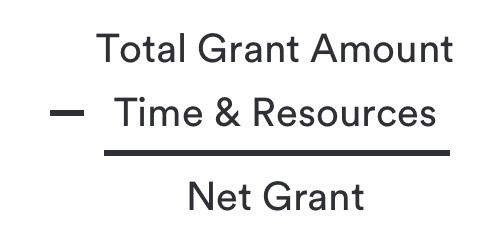
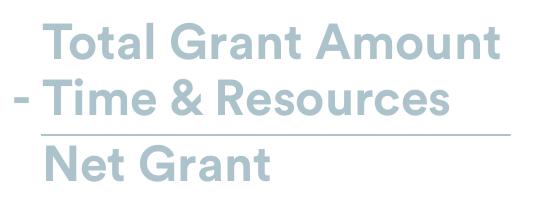
Resolving #104 #105 #106 #30

diff --git a/_layouts/landing.html b/_layouts/landing.html
@@ -19,22 +19,21 @@
 				<div class="marketing">
 					<div class="features">
 						<div class="intro col col--xs-24 col--sm-24 col--md-12 col--lg-12">
-							<h2>What is the "Net Grant?"</h2>
-							<p>Net Grant = Total Grant Amount MINUS the Time and Resources expended to seek and implement the grant.
+							<h2>What is the "net grant?"</h2>
+							<p>Net Grant = Total Grant Amount MINUS the time and resources expended to seek and implement the grant.
 							</p>
 							<div class="equation">
 								<img src="{{ "/img/net-grant-equation.png" | prepend: site.baseurl | prepend: site.url }}">
 							</div>
-							<p>This tool will help grantmakers and grantseekers better understand the cost to their organization - and to the sector as whole - of making and seeking grants.
+							<p>This tool will help grantmakers and grantseekers calculate and better understand the true cost to your organizations – and to the sector as whole – of making and seeking grants.
 							</p>
 						</div>
 					</div>
 					<div class="features">
 						<div class="gseek col col--xs-24 col--sm-24 col--md-12 col--lg-12">
-							<h2 id="grantseekers">For Grantseekers</h2>
-							<h3>Decide Which Grants To Pursue</h3>
-							<p>The net grant calculator helps you decide which grants to pursue and helps you prioritize those grants with the highest net grant value to your organization.<br>
-								Grantseekers can use the tool to help them calculate – and understand – their return on investment for grantseeking activities and ensure that you’re spending time on what’s most important.
+							<h2 id="grantseekers">Grantseekers</h2>
+							<h3>Decide which grants to pursue</h3>
+							<p>You can use the tool to help you calculate – and understand – your return on investment for grantseeking activities and ensure that you’re spending time on what’s most important. The Net Grant Calculator can help you decide which grants to pursue and help you prioritize those grants with the highest net grant value to your organization.
 							</p>
 							<div class="feature col col--xs-12 col--sm-12 col--md-6 col--lg-6">
 								<div class="logo">
@@ -52,10 +51,9 @@
 							</div>
 						</div>
 						<div class="gmake col col--xs-24 col--sm-24 col--md-12 col--lg-12">
-							<h2 id="grantmakers">For Grantmakers</h2>
-							<h3>Know The Cost of Your Grant Programs</h3>
-							<p>The net grant calculator helps you map your grantmaking process and understand how much it costs to run each of your grant programs and the amount of time and resources expended by potential grantees to apply.<br>
-								As a grantmaker, you want to ensure that the cost to run each of your programs does not eat away at the benefit it offers and ensure that you are spending time and money on the right parts of the grantmaking process.
+							<h2 id="grantmakers">Grantmakers</h2>
+							<h3>Know the cost of your grant programs</h3>
+							<p>You want to ensure that the cost to run each of your programs does not eat away at the benefit it offers, and that you are spending time and money on the right parts of the grantmaking process. The Net Grant Calculator helps you map your grantmaking process and understand how much it costs to run each of your grant programs and the amount of time and resources expended by potential grantees to apply.
 							</p>
 						</div>
 						<div class="features">
@@ -99,10 +97,10 @@
 					</form>
 				</div>
 				<div class="description">
-					<h2>Grant Calculator is supported by</h2>
+					<h2>Net Grant Calculator is supported by</h2>
 					<img class="support" alt="Peak Grantmaking" src="{{ "/img/peak_logo.png" | prepend: site.baseurl | prepend: site.url }}">
 					<img class="support" alt="New America PIT" src="{{ "/img/newamerica_logo.png" | prepend: site.baseurl | prepend: site.url }}">
-					<h2>Grant Calculator is a project of</h2>
+					<h2>Net Grant Calculator is a project of</h2>
 					<img class="support" alt="The Mulligan Fund" src="{{ "/img/mulligan_logo.png" | prepend: site.baseurl | prepend: site.url }}">
 				</div>
 			</div>

diff --git a/_layouts/home.html b/_layouts/home.html
@@ -10,7 +10,7 @@
      </div>
      <div class="description">
         <h2>How much is that grant really worth? The Net Grant Calculator will help you find out.</h2>
-        <p>The Net Grant Calculator helps both not-for-profits and grantmakers evaluate the net value a grant will provide. <b>For not-for-profits</b>, the calculator provides a tool to help decide which grants to pursue. For <b>grantmakers</b>, the calculator helps understand the impact on grantees of application and management processes and helps identify ways to increase their grants' net value to grantees. It also helps grantmakers understand the cost of running a grant program to help identify ways to streamline internal processes.</p>
+        <p>The Net Grant Calculator helps both not-for-profits and grantmakers evaluate the net value a grant will provide. <b>For grantseekers</b>, the calculator provides a tool to help decide which grants to pursue. For <b>grantmakers</b>, the calculator helps understand the impact on grantees of application and management processes and helps identify ways to increase their grants' net value to grantees. It also helps grantmakers understand the cost of running a grant program to help identify ways to streamline internal processes.</p>
  
         <p>To get the most value from this tool, you’ll need information about who in your organization is involved with different stages of the grant process and how much time they spent. If you don’t know exact numbers, you can use estimates and still get a good sense of the net value of a particular grant or program.</p>
           

diff --git a/gmaker.html b/gmaker.html
@@ -127,7 +127,7 @@ page: form
 		</div>
 
 		{% if forloop.last %}
-			<a href="{{ "/result" | prepend: site.baseurl | prepend: site.url }}" class="button local bottomgrant">Grant Result</a>{% endif %}
+			<a href="{{ "/makerresult" | prepend: site.baseurl | prepend: site.url }}" class="button local bottomgrant">Grant Result</a>{% endif %}
 
 		<div class="del col col--xs-12 col--sm-12 col--md-8 col--lg-8 col--md-offset-2 col--lg-offset-2"">
 		<a href="#" class="delete">Delete Grant?</a>

diff --git a/about.md b/about.md
@@ -1,13 +1,13 @@
 ---
 layout: content
-title: About The Net Grant Calculator
+title: About the Net Grant Calculator
 permalink: /about/
 ---
-The Net Grant Calculator helps both not-for-profits and grantmakers evaluate the net value a grant will provide. For not-for-profits, the calculator provides a tool to help decide which grants to pursue. For grantmakers, the calculator helps understand the impact on grantees of application and management processes and helps identify ways to increase their grants' net value to grantees. It also helps grantmakers understand the cost of running a grant program to help identify ways to streamline internal processes.
+The Net Grant Calculator helps both grantmakers and grantseekers evaluate the net value a grant will provide. For grantseekers, the calculator provides a tool to help decide which grants to pursue. For grantmakers, the calculator helps understand the impact on grantees of application and management processes and helps identify ways to increase their grants' net value to grantees. It also helps grantmakers understand the cost of running a grant program to help identify ways to streamline internal processes.
 
 We built the Net Grant Calculator to help organizations maximize their net grant values to help ensure as much net grant money as possible goes to program and service delivery.
 
-[Read more here](https://www.peakgrantmaking.org/blog/net-grants-how-much-is-that-grant-really-worth/)
+[Read more here](https://www.peakgrantmaking.org/blog/net-grants-how-much-is-that-grant-really-worth/){target="_blank"}
 
 ## How to Use the Net Grant Calculator
 To get the most value from this tool, you’ll need information about who in your organization is involved with different stages of the grant process and how much time they spent. If you don’t know exact numbers, you can use estimates and still get a good sense of the net value of a particular grant or program.
@@ -18,9 +18,7 @@ It will also help to have an idea of the salaries of people involved in the gran
 
 ![PEAK Grantmaking]({{ "/img/peak_logo.png" | absolute_url }})
 
-**[PEAK Grantmaking](https://www.peakgrantmaking.org/)** is a member-led national association of professionals who specialize in grants management for funding organizations. The people of PEAK Grantmaking come together to form a vibrant community of grantmaking practice that advances shared leadership and learning across the sector.
-
-This is where Practice Meets Purpose. By cultivating resources, learning opportunities, and collaborations across the philanthropic spectrum, we support grantmaking practices designed to maximize mission-driven efficiency and effectiveness of funders of every size.
+**[PEAK Grantmaking](https://www.peakgrantmaking.org/)** is a vibrant, member-led national association of more than 4,000 professionals who specialize in grants management for funding organizations. Together, we share knowledge and foster collaboration to strengthen practice. We enable philanthropy to achieve its full potential to fuel change for good. We are the only organization dedicated solely to advancing the how of grantmaking—the operations that funders undertake to make grants and assess the impact of those investments. We work at the intersection where Practice Meets Purpose.
 
 ![New America]({{ "/img/newamerica_logo.png" | absolute_url }})
 
